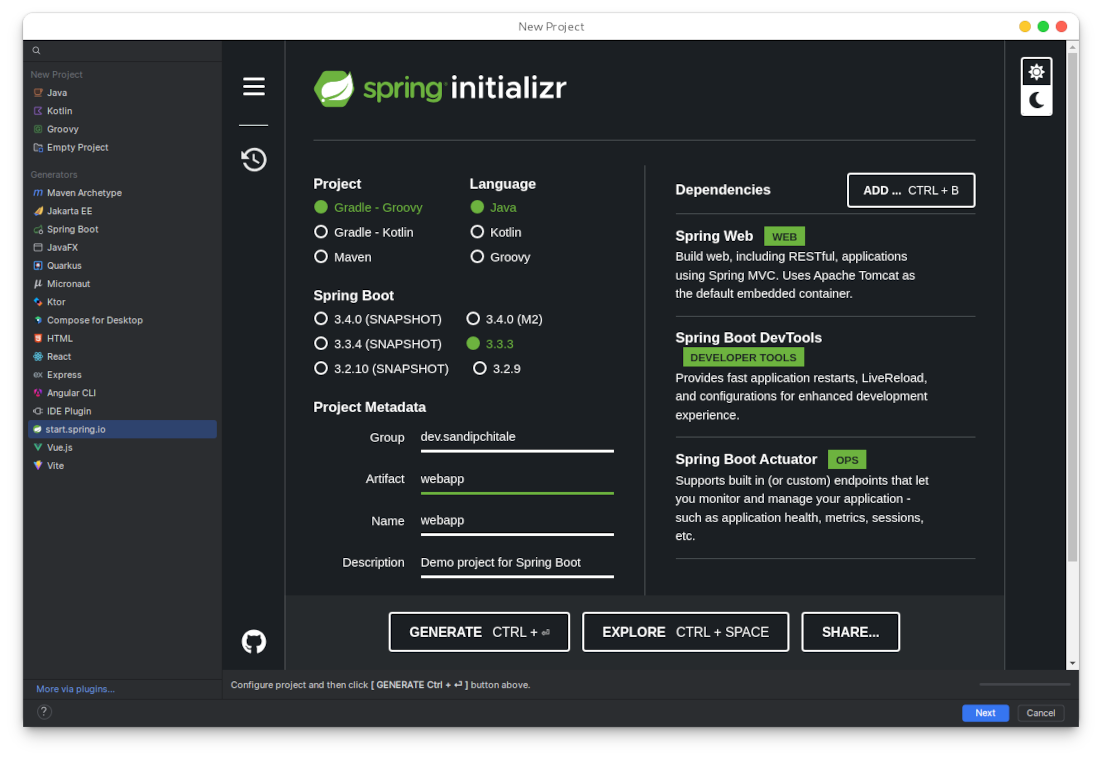
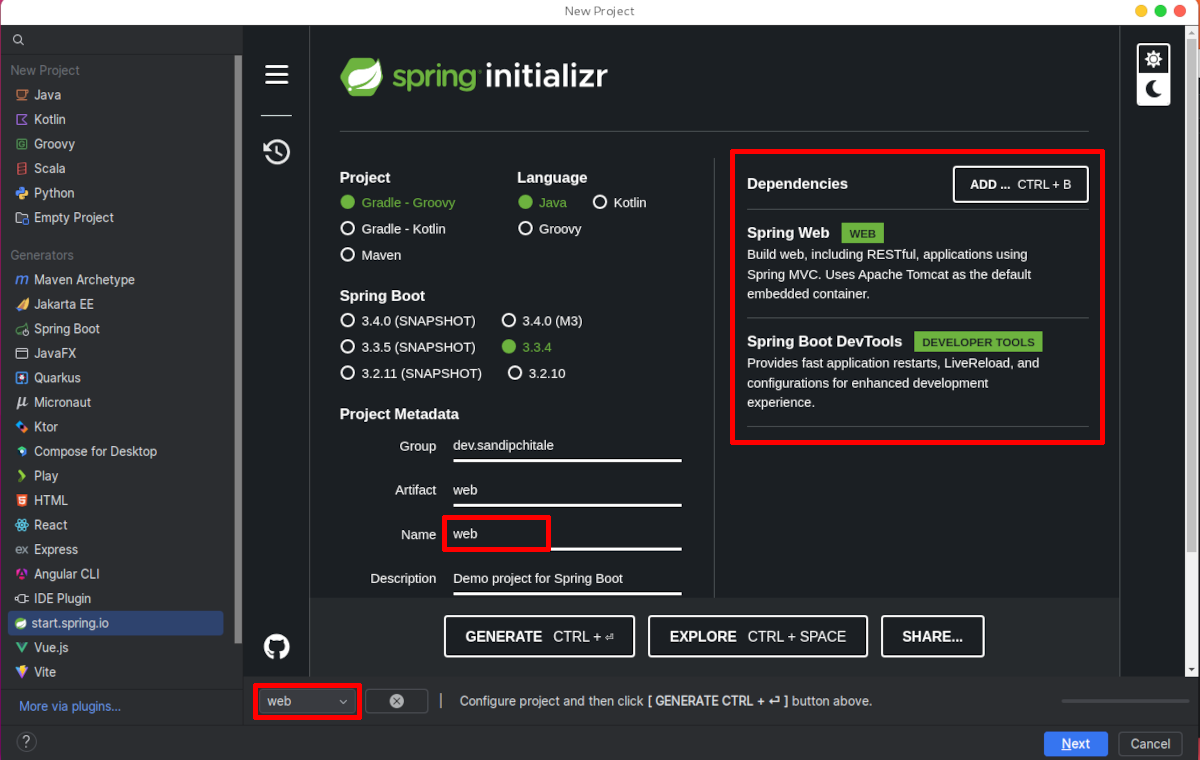
Remember by project name, the configuration for generating the project with ability to delete saved, named configs.

Changed region(s): [[0.0, 0.0, 1.0, 1.0], [0.5862, 0.1816, 0.9256, 0.7263], [0.4319, 0.2118, 0.5554, 0.3632]]

diff --git a/src/main/java/sandipchitale/SpringInitializrToolWindow.java b/src/main/java/sandipchitale/SpringInitializrToolWindow.java
@@ -8,6 +8,8 @@ import com.intellij.openapi.actionSystem.AnActionEvent;
 import com.intellij.openapi.application.ApplicationManager;
 import com.intellij.openapi.project.Project;
 import com.intellij.openapi.project.ex.ProjectManagerEx;
+import com.intellij.openapi.ui.ComboBox;
+import com.intellij.openapi.ui.Messages;
 import com.intellij.openapi.ui.SimpleToolWindowPanel;
 import com.intellij.ui.jcef.JBCefBrowser;
 import com.intellij.ui.jcef.JBCefClient;
@@ -31,11 +33,14 @@ import org.jetbrains.annotations.NotNull;
 import javax.swing.*;
 import java.awt.*;
 import java.awt.event.ActionEvent;
+import java.awt.event.ItemEvent;
 import java.io.File;
 import java.io.IOException;
 import java.nio.file.Files;
 import java.nio.file.Path;
 import java.nio.file.Paths;
+import java.util.Arrays;
+import java.util.List;
 import java.util.Objects;
 
 public class SpringInitializrToolWindow {
@@ -99,9 +104,22 @@ public class SpringInitializrToolWindow {
         JPanel progressBarWrapper = new JPanel(new BorderLayout(10, 0));
         progressBarWrapper.setBorder(BorderFactory.createEmptyBorder(10, 10, 10, 10));
 
-        JButton resetToDefaultValuesButton = new JButton(AllIcons.Actions.DeleteTagHover);
-        resetToDefaultValuesButton.setToolTipText("Reset to default values");
-        progressBarWrapper.add(resetToDefaultValuesButton, BorderLayout.WEST);
+        JPanel savedConfigsPanel = new JPanel(new FlowLayout(FlowLayout.LEFT, 5, 0));
+
+        DefaultComboBoxModel<SpringInitializrConfig.SavedConfig> savedConfigsModel = new DefaultComboBoxModel<>() {};
+        List<SpringInitializrConfig.SavedConfig> springInitializrSavedConfigs = SpringInitializrConfig.getSpringInitializrSavedConfigs();
+        savedConfigsModel.addAll(springInitializrSavedConfigs);
+        savedConfigsModel.setSelectedItem(springInitializrSavedConfigs.get(0));
+        ComboBox<SpringInitializrConfig.SavedConfig> savedConfigs = new ComboBox<>(savedConfigsModel);
+        savedConfigsPanel.add(savedConfigs);
+
+        JButton deleteSelectedSavedConfigButton = new JButton(AllIcons.Actions.DeleteTagHover);
+        deleteSelectedSavedConfigButton.setToolTipText("Delete saved config");
+        savedConfigsPanel.add(deleteSelectedSavedConfigButton);
+
+        savedConfigsPanel.add(new JLabel(" | "));
+
+        progressBarWrapper.add(savedConfigsPanel, BorderLayout.WEST);
 
         JLabel progressBarLabel = new JLabel("<html>Configure project and then click <b>[ GENERATE CTRL + ⏎ ] button above.</b>");
         progressBarWrapper.add(progressBarLabel, BorderLayout.CENTER);
@@ -110,7 +128,7 @@ public class SpringInitializrToolWindow {
         progressBar.setIndeterminate(false);
         progressBarWrapper.add(progressBar, BorderLayout.EAST);
 
-        JBCefBrowser browser = new JBCefBrowser(SpringInitializrConfig.getSpringInitializrUrl());
+        JBCefBrowser browser = new JBCefBrowser(SpringInitializrConfig.SPRINGINITIALIZR_URL_DEFAULT_VALUE);
         browser.setProperty(JBCefBrowser.Properties.FOCUS_ON_SHOW, Boolean.TRUE);
         browser.setProperty(JBCefBrowser.Properties.FOCUS_ON_NAVIGATION, Boolean.TRUE);
         JBCefClient client = browser.getJBCefClient();
@@ -128,7 +146,19 @@ public class SpringInitializrToolWindow {
                 Url url = Urls.parseEncoded(urlString);
                 if (Objects.requireNonNull(url).getPath().equals("/starter.zip")) {
                     url = Urls.parseEncoded(urlString.replace("/starter.zip?", "/#!"));
-                    SpringInitializrConfig.setSpringInitializrUrl(url.toString());
+                    String name = Arrays.stream(Objects.requireNonNull(Objects.requireNonNull(url).getParameters()).split("&"))
+                            .filter((String parameter) -> {
+                                String[] parameterParts = parameter.split("=");
+                                return (parameterParts[0].equals("name"));
+                            })
+                            .map((String nameParameter) -> nameParameter.split("=")[1])
+                            .findFirst().orElse(null);
+                    if (name != null) {
+                        SpringInitializrConfig.SavedConfig savedConfig = SpringInitializrConfig.setConfig(name, url.toString());
+                        savedConfigsModel.removeAllElements();
+                        savedConfigsModel.addAll(SpringInitializrConfig.getSpringInitializrSavedConfigs());
+                        savedConfigsModel.setSelectedItem(savedConfig);
+                    }
                 }
                 return null;
             }
@@ -138,9 +168,28 @@ public class SpringInitializrToolWindow {
         contentToolWindow.add(browser.getComponent(), BorderLayout.CENTER);
         contentToolWindow.add(progressBarWrapper, BorderLayout.SOUTH);
 
-        resetToDefaultValuesButton.addActionListener((ActionEvent actionEvent) -> {
-            browser.loadURL(SpringInitializrConfig.reset());
+        deleteSelectedSavedConfigButton.addActionListener((ActionEvent actionEvent) -> {
+            SpringInitializrConfig.SavedConfig selectedSavedConfig = (SpringInitializrConfig.SavedConfig) savedConfigs.getSelectedItem();
+            if (selectedSavedConfig.name().equals(SpringInitializrConfig.SPRINGINITIALIZR_NAME_DEFAULT_VALUE)) {
+                Messages.showWarningDialog(contentToolWindow,
+                        "Cannot delete : " + SpringInitializrConfig.SPRINGINITIALIZR_NAME_DEFAULT_VALUE,
+                        "Warning");
+                return;
+            }
+            SpringInitializrConfig.deleteSavedConfig(selectedSavedConfig.name());
+            savedConfigsModel.removeAllElements();
+            List<SpringInitializrConfig.SavedConfig> sisc = SpringInitializrConfig.getSpringInitializrSavedConfigs();
+            savedConfigsModel.addAll(sisc);
+            savedConfigsModel.setSelectedItem(sisc.get(0));
+
         });
+
+        savedConfigs.addItemListener((ItemEvent itemEvent) -> {
+            if (savedConfigs.getSelectedItem() != null) {
+                browser.loadURL(((SpringInitializrConfig.SavedConfig) savedConfigs.getSelectedItem()).url());
+            }
+        });
+
     }
 
     public JComponent getContent() {

diff --git a/src/main/java/sandipchitale/StartSpringIOModuleWizardStep.java b/src/main/java/sandipchitale/StartSpringIOModuleWizardStep.java
@@ -5,6 +5,7 @@ import com.intellij.ide.util.projectWizard.ModuleWizardStep;
 import com.intellij.ide.util.projectWizard.WizardContext;
 import com.intellij.openapi.Disposable;
 import com.intellij.openapi.diagnostic.Logger;
+import com.intellij.openapi.ui.ComboBox;
 import com.intellij.openapi.ui.Messages;
 import com.intellij.openapi.ui.SimpleToolWindowPanel;
 import com.intellij.ui.jcef.JBCefBrowser;
@@ -25,8 +26,11 @@ import org.cef.network.CefRequest;
 import javax.swing.*;
 import java.awt.*;
 import java.awt.event.ActionEvent;
+import java.awt.event.ItemEvent;
 import java.awt.event.KeyAdapter;
 import java.awt.event.KeyEvent;
+import java.util.Arrays;
+import java.util.List;
 import java.util.Objects;
 
 public class StartSpringIOModuleWizardStep extends ModuleWizardStep {
@@ -56,15 +60,29 @@ public class StartSpringIOModuleWizardStep extends ModuleWizardStep {
     public void updateStep() {
     }
 
+
     @Override
     public JComponent getComponent() {
         contentToolWindow = new SimpleToolWindowPanel(true, true);
         JPanel progressBarWrapper = new JPanel(new BorderLayout(10, 0));
         progressBarWrapper.setBorder(BorderFactory.createEmptyBorder(10, 10, 10, 10));
 
-        JButton resetToDefaultValuesButton = new JButton(AllIcons.Actions.DeleteTagHover);
-        resetToDefaultValuesButton.setToolTipText("Reset to default values");
-        progressBarWrapper.add(resetToDefaultValuesButton, BorderLayout.WEST);
+        JPanel savedConfigsPanel = new JPanel(new FlowLayout(FlowLayout.LEFT, 5, 0));
+
+        DefaultComboBoxModel<SpringInitializrConfig.SavedConfig> savedConfigsModel = new DefaultComboBoxModel<>() {};
+        List<SpringInitializrConfig.SavedConfig> springInitializrSavedConfigs = SpringInitializrConfig.getSpringInitializrSavedConfigs();
+        savedConfigsModel.addAll(springInitializrSavedConfigs);
+        savedConfigsModel.setSelectedItem(springInitializrSavedConfigs.get(0));
+        ComboBox<SpringInitializrConfig.SavedConfig> savedConfigs = new ComboBox<>(savedConfigsModel);
+        savedConfigsPanel.add(savedConfigs);
+
+        JButton deleteSelectedSavedConfigButton = new JButton(AllIcons.Actions.DeleteTagHover);
+        deleteSelectedSavedConfigButton.setToolTipText("Delete saved config");
+        savedConfigsPanel.add(deleteSelectedSavedConfigButton);
+
+        savedConfigsPanel.add(new JLabel(" | "));
+
+        progressBarWrapper.add(savedConfigsPanel, BorderLayout.WEST);
 
         progressBarLabel = new JLabel(" ");
         progressBarWrapper.add(progressBarLabel, BorderLayout.CENTER);
@@ -72,7 +90,7 @@ public class StartSpringIOModuleWizardStep extends ModuleWizardStep {
         progressBar = new JProgressBar();
         progressBarWrapper.add(progressBar, BorderLayout.EAST);
 
-        browser = new JBCefBrowser(SpringInitializrConfig.getSpringInitializrUrl());
+        browser = new JBCefBrowser(((SpringInitializrConfig.SavedConfig) savedConfigsModel.getSelectedItem()).url());
         browser.getComponent().addKeyListener(new KeyAdapter() {
             @Override
             public void keyPressed(KeyEvent e) {
@@ -105,7 +123,19 @@ public class StartSpringIOModuleWizardStep extends ModuleWizardStep {
                 Url url = Urls.parseEncoded(urlString);
                 if (Objects.requireNonNull(url).getPath().equals("/starter.zip")) {
                     url = Urls.parseEncoded(urlString.replace("/starter.zip?", "/#!"));
-                    SpringInitializrConfig.setSpringInitializrUrl(url.toString());
+                    String name = Arrays.stream(Objects.requireNonNull(Objects.requireNonNull(url).getParameters()).split("&"))
+                            .filter((String parameter) -> {
+                                String[] parameterParts = parameter.split("=");
+                                return (parameterParts[0].equals("name"));
+                            })
+                            .map((String nameParameter) -> nameParameter.split("=")[1])
+                            .findFirst().orElse(null);
+                    if (name != null) {
+                        SpringInitializrConfig.SavedConfig savedConfig = SpringInitializrConfig.setConfig(name, url.toString());
+                        savedConfigsModel.removeAllElements();
+                        savedConfigsModel.addAll(SpringInitializrConfig.getSpringInitializrSavedConfigs());
+                        savedConfigsModel.setSelectedItem(savedConfig);
+                    }
                 }
                 return null;
             }
@@ -114,8 +144,26 @@ public class StartSpringIOModuleWizardStep extends ModuleWizardStep {
         contentToolWindow.add(browser.getComponent(), BorderLayout.CENTER);
         contentToolWindow.add(progressBarWrapper, BorderLayout.SOUTH);
 
-        resetToDefaultValuesButton.addActionListener((ActionEvent actionEvent) -> {
-            browser.loadURL(SpringInitializrConfig.reset());
+        deleteSelectedSavedConfigButton.addActionListener((ActionEvent actionEvent) -> {
+            SpringInitializrConfig.SavedConfig selectedSavedConfig = (SpringInitializrConfig.SavedConfig) savedConfigs.getSelectedItem();
+            if (selectedSavedConfig.name().equals(SpringInitializrConfig.SPRINGINITIALIZR_NAME_DEFAULT_VALUE)) {
+                Messages.showWarningDialog(contentToolWindow,
+                        "Cannot delete : " + SpringInitializrConfig.SPRINGINITIALIZR_NAME_DEFAULT_VALUE,
+                        "Warning");
+                return;
+            }
+            SpringInitializrConfig.deleteSavedConfig(selectedSavedConfig.name());
+            savedConfigsModel.removeAllElements();
+            List<SpringInitializrConfig.SavedConfig> sisc = SpringInitializrConfig.getSpringInitializrSavedConfigs();
+            savedConfigsModel.addAll(sisc);
+            savedConfigsModel.setSelectedItem(sisc.get(0));
+
+        });
+
+        savedConfigs.addItemListener((ItemEvent itemEvent) -> {
+            if (savedConfigs.getSelectedItem() != null) {
+                browser.loadURL(((SpringInitializrConfig.SavedConfig) savedConfigs.getSelectedItem()).url());
+            }
         });
 
         return contentToolWindow;

diff --git a/src/main/java/sandipchitale/SpringInitializrConfig.java b/src/main/java/sandipchitale/SpringInitializrConfig.java
@@ -2,25 +2,81 @@ package sandipchitale;
 
 import com.intellij.ide.util.PropertiesComponent;
 
-final class SpringInitializrConfig {
-    private static final String SPRINGINITIALIZR_LAST_URL = "sandipchitale.springinitializr.lastUrl";
-    private static final String SPRINGINITIALIZR_LAST_URL_DEFAULT_VALUE = "https://start.spring.io/";
+import java.util.ArrayList;
+import java.util.Comparator;
+import java.util.List;
+import java.util.stream.Collectors;
 
-    static String getSpringInitializrUrl() {
-        String savedSpringInitializrUrl = PropertiesComponent.getInstance().getValue(SPRINGINITIALIZR_LAST_URL);
-        if (savedSpringInitializrUrl == null) {
-            return reset();
-        } else {
-            return savedSpringInitializrUrl;
+final class SpringInitializrConfig {
+    static final String SPRINGINITIALIZR_NAME_DEFAULT_VALUE = "DEFAULT";
+    static final String SPRINGINITIALIZR_URL_DEFAULT_VALUE = "https://start.spring.io/";
+
+    record SavedConfig(String name, String url) {
+        public String toString() {
+            return name();
+        }
+
+        static SavedConfig of(String savedConfigAsString) {
+            String[] savedConfigParts = savedConfigAsString.split("\\|");
+            return new SavedConfig(savedConfigParts[0],
+                    savedConfigParts[1]);
         }
     }
 
-    static void setSpringInitializrUrl(String springInitializrUrl) {
-        PropertiesComponent.getInstance().setValue(SPRINGINITIALIZR_LAST_URL, springInitializrUrl);
+    static final String SPRINGINITIALIZR_SAVED_CONFIGS = "sandipchitale.springinitializr.savedConfigs";
+    static final SavedConfig SPRINGINITIALIZR_SAVED_CONFIG_DEFAULT_VALUE = new SavedConfig(SPRINGINITIALIZR_NAME_DEFAULT_VALUE, SPRINGINITIALIZR_URL_DEFAULT_VALUE);
+
+    static List<SavedConfig> getSpringInitializrSavedConfigs() {
+        List<String> savedConfigsList = PropertiesComponent.getInstance().getList(SPRINGINITIALIZR_SAVED_CONFIGS);
+        if (savedConfigsList == null) {
+            return resetSpringInitializrSavedConfigs();
+        } else {
+            return savedConfigsList
+                    .stream()
+                    .map(SavedConfig::of)
+                    .collect(Collectors.toList());
+        }
     }
 
-    static String reset() {
-        PropertiesComponent.getInstance().setValue(SPRINGINITIALIZR_LAST_URL, SPRINGINITIALIZR_LAST_URL_DEFAULT_VALUE);
-        return SPRINGINITIALIZR_LAST_URL_DEFAULT_VALUE;
+    static List<SavedConfig> resetSpringInitializrSavedConfigs() {
+        List<SavedConfig> savedConfigs = new ArrayList<>();
+        savedConfigs.add(SPRINGINITIALIZR_SAVED_CONFIG_DEFAULT_VALUE);
+        PropertiesComponent.getInstance().setList(SPRINGINITIALIZR_SAVED_CONFIGS,
+                savedConfigs
+                        .stream()
+                        .map((SavedConfig savedConfig) -> String.format("%s|%s", savedConfig.name(), savedConfig.url()))
+                        .collect(Collectors.toList())
+        );
+        return savedConfigs;
+    }
+
+    static void deleteSavedConfig(String name) {
+        List<SavedConfig> springInitializrSavedConfigs = getSpringInitializrSavedConfigs();
+        springInitializrSavedConfigs = springInitializrSavedConfigs
+                .stream()
+                .filter((SavedConfig sc) -> !sc.name().equals(name))
+                .toList();
+        PropertiesComponent.getInstance().setList(SPRINGINITIALIZR_SAVED_CONFIGS,
+                springInitializrSavedConfigs.stream()
+                        .sorted(Comparator.comparing(SavedConfig::name))
+                        .map(sc -> String.format("%s|%s", sc.name(), sc.url()))
+                        .collect(Collectors.toList()));
+    }
+
+    static SavedConfig setConfig(String name, String url) {
+        List<SavedConfig> springInitializrSavedConfigs = getSpringInitializrSavedConfigs();
+        springInitializrSavedConfigs = springInitializrSavedConfigs
+                .stream()
+                .filter((SavedConfig sc) -> !sc.name().equals(name))
+                .collect(Collectors.toList());
+        SavedConfig savedConfig = new SavedConfig(name, url);
+        springInitializrSavedConfigs.add(savedConfig);
+
+        PropertiesComponent.getInstance().setList(SPRINGINITIALIZR_SAVED_CONFIGS,
+                springInitializrSavedConfigs.stream()
+                        .sorted(Comparator.comparing(SavedConfig::name))
+                        .map(sc -> String.format("%s|%s", sc.name(), sc.url()))
+                        .collect(Collectors.toList()));
+        return savedConfig;
     }
 }
